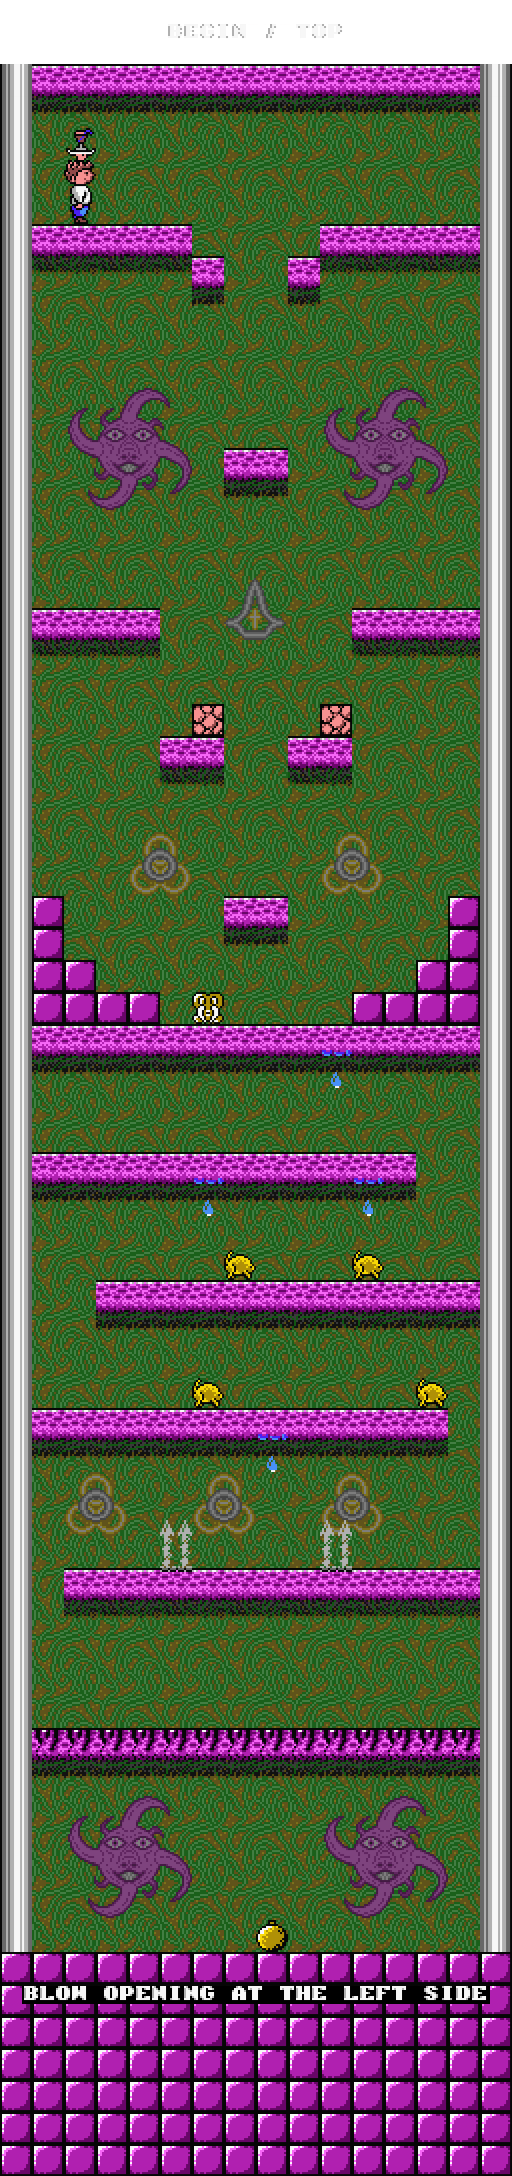
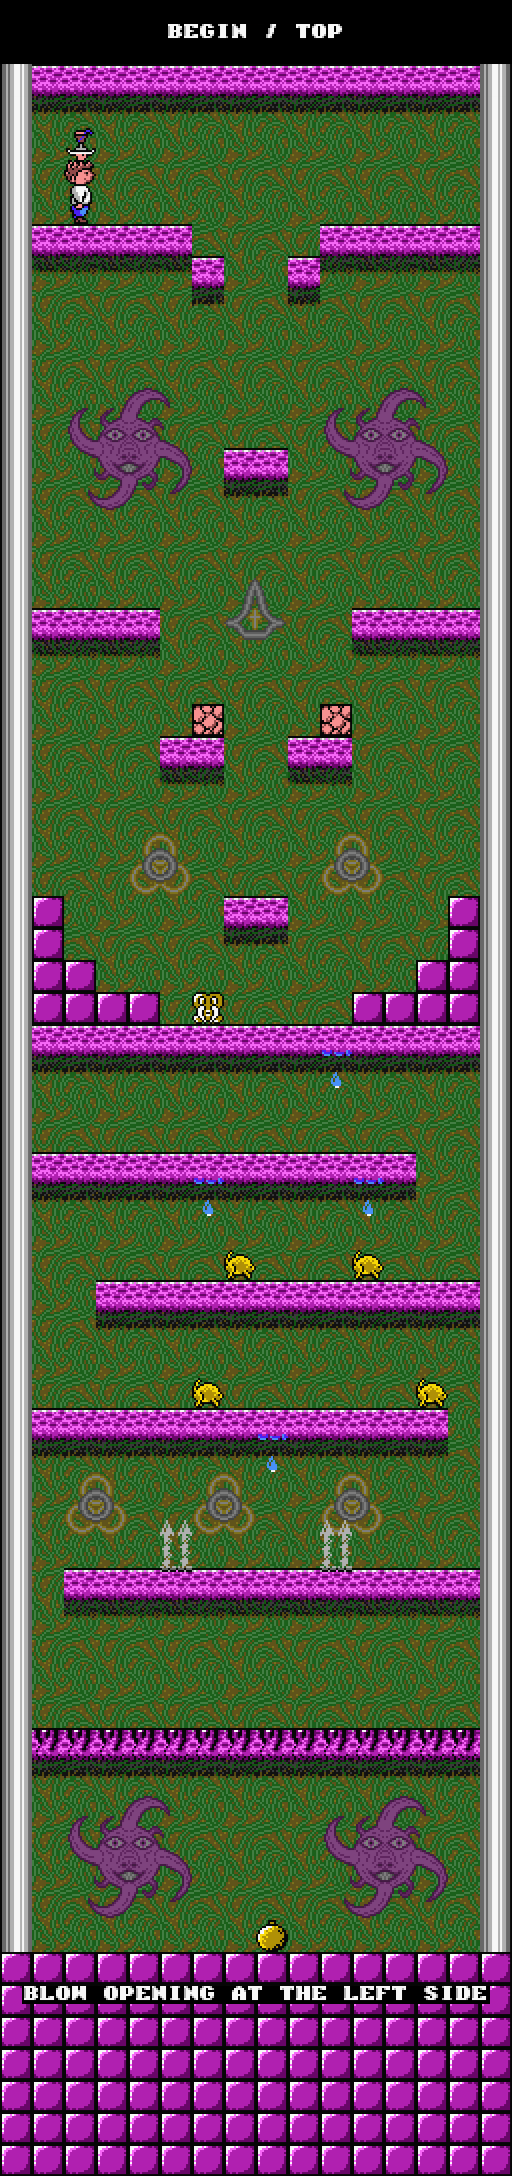
transparancy removed from png maps

Changed region(s): [[0.0, 0.0, 1.0, 0.0312]]

diff --git a/_extra/_jobs_as_png_maps/_map_maker/README.md b/_extra/_jobs_as_png_maps/_map_maker/README.md
@@ -1,7 +1,7 @@
 ## Frantic Map Maker - made with Microsoft Visual Studio 2017
 
 This is a little 'Windows Forms' project to generate maps of Frantic
-(big .png-images) based on the original .JOB files of the game.
+(big `.png` images) based on the original `.JOB` files of the game.
 
 It was made with Visual Studio 2017, but it will probably compile perfectly
 with newer versions of Visual Studio (or even older versions too).
@@ -9,22 +9,19 @@ with newer versions of Visual Studio (or even older versions too).
 The code is somewhat 'quick-and-dirty' due to the one-time purpose of just
 generating the maps.
 
-It can help however to analyse the structure of the .JOB files of Frantic.
+It can help however to analyse the structure of the `.JOB` files of Frantic.
 
 
 
 ## How to use
 
--Install Microsoft Visual Studio 2017 (or newer/compatible)
- (Community Edition is free)
--Open the project in Visual Studio (FranticMapMaker.csproj)
--Compile the project
--Copy 'frantic.png' to the folder where 'FranticMapMaker.exe' resides
- (normally 'bin\Debug' or 'bin\Release')
--Also copy 'FRANTIC?.JOB' (where ? = 1,2,3,4,5,6) to the same folder.
- (this are the JOB files of the original game)
--Now run 'FranticMapMaker.exe' (or run it from within Visual Studio).
--Choose a Job number and click the 'Make Map' button.
--A file 'Frantic_Job?.png' will be created.
+- Install Microsoft Visual Studio 2017 (or newer/compatible) (Community Edition is free).
+- Open the project in Visual Studio (`FranticMapMaker.csproj`).
+- Compile the project.
+- Copy `frantic.png` to the folder where `FranticMapMaker.exe` resides (normally `bin\Debug` or `bin\Release`).
+- Also copy `FRANTIC?.JOB` (where ? = `1`/`2`/`3`/`4`/`5`/`6`) to the same folder (this are the `.JOB` files of the original game).
+- Now run `FranticMapMaker.exe` (or run it from within Visual Studio).
+- Choose a Job number and click the 'Make Map' button.
+- A file `Frantic_Job?.png` will be created.
 
 

diff --git a/_extra/_jobs_as_png_maps/README.md b/_extra/_jobs_as_png_maps/README.md
@@ -2,7 +2,7 @@
 
 These images show the complete stages/jobs of the game, including the moving enemies. The backgrounds have been made darker for beter readability / viewability.
 
-The subdirectory `map_maker` contains the little tool that builds these images from the original `.JOB` files.
+The subdirectory `_map_maker` contains the little tool that builds these images from the original `.JOB` files.
 
 
 
